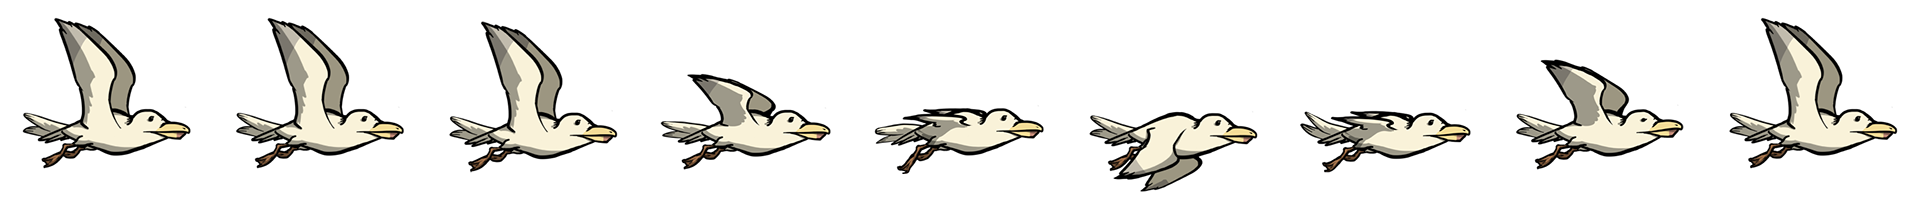
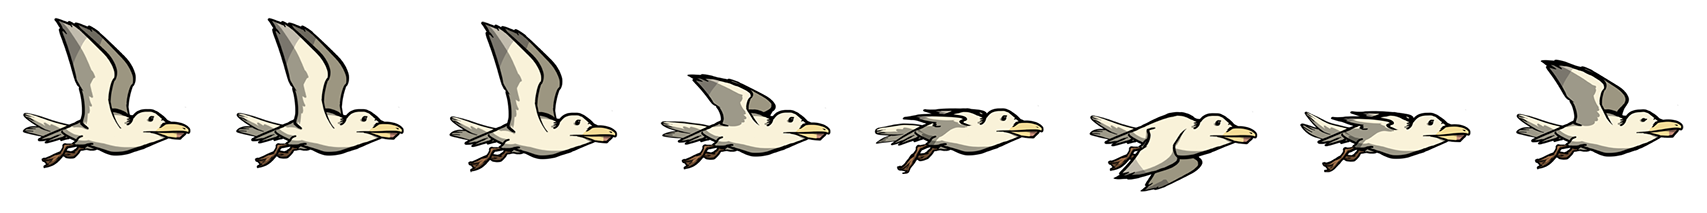
Added InfoBox animation and added new method to get sub frames - Alex Manning

Changed region(s): [[0.0, 0.0845, 0.9936, 0.9014]]

diff --git a/LarryCroftsAdventures/src/nz/ac/wgtn/swen225/lc/renderer/Renderer.java b/LarryCroftsAdventures/src/nz/ac/wgtn/swen225/lc/renderer/Renderer.java
@@ -4,6 +4,7 @@ import nz.ac.wgtn.swen225.lc.domain.Board;
 import nz.ac.wgtn.swen225.lc.domain.Chap;
 import nz.ac.wgtn.swen225.lc.domain.items.Key;
 import nz.ac.wgtn.swen225.lc.domain.tiles.*;
+import nz.ac.wgtn.swen225.lc.persistency.Enemy;
 
 import javax.swing.*;
 import java.awt.*;
@@ -30,10 +31,10 @@ public class Renderer extends JPanel{
     }
     private State state = State.IDLE;
     private enum Images {
-        CHAP, DOOR_BLUE, DOOR_GREEN, DOOR_RED, DOOR_YELLOW, EXIT, FREE, INFOBOX, KEY_BLUE, KEY_GREEN, KEY_RED, KEY_YELLOW, TREASURE, WALL, BOAT, SEAGULL_LEFT, SEAGULL_RIGHT
+        CHAP, DOOR_BLUE, DOOR_GREEN, DOOR_RED, DOOR_YELLOW, EXIT, FREE, INFOBOX, KEY_BLUE, KEY_GREEN, KEY_RED, KEY_YELLOW, TREASURE, WALL, BOAT, SEAGULL_LEFT, SEAGULL_RIGHT, ENEMY
     }
 
-    private final HashMap<Images, Image> images = new HashMap<>();
+    private final HashMap<Images, BufferedImage> images = new HashMap<>();
     private int count = 0;
     private final Random random = new Random();
     private boolean seagullActivated = false;
@@ -41,6 +42,7 @@ public class Renderer extends JPanel{
     private double seagullY;
     private int cellSize;
     private final AudioUnit audioUnit;
+    private int frame;
 
     /**
      * Constructor for the Renderer class.
@@ -78,17 +80,15 @@ public class Renderer extends JPanel{
      */
     public void draw(Graphics g) throws IOException {
         // Dimensions
-        int mazePanelWidth = this.getWidth();
-        int mazePanelHeight = this.getHeight();
-        double tileWidth = mazePanelWidth/ camera.getWidth();
-        double tileHeight = mazePanelHeight/camera.getHeight();
+        double tileWidth = this.getHeight()/ camera.getWidth();
+        double tileHeight = this.getHeight()/camera.getHeight();
         cellSize = (int)Math.max(0, Math.min(tileWidth, tileHeight));
-        int distanceFromLeftBorder = (int)(mazePanelWidth/2 - (cellSize* camera.getWidth()/2));
-        int distanceFromTopBorder = (int)(mazePanelHeight/2 - (cellSize* camera.getHeight()/2));
-        int frame = (count/16) % 8;
+        int distanceFromLeftBorder = (int)(this.getWidth()/2 - (cellSize* camera.getWidth()/2));
+        int distanceFromTopBorder = (int)(this.getHeight()/2 - (cellSize* camera.getHeight()/2));
+        frame = (count/16) % 8;
 
         drawBoard(g);
-        drawChap(mazePanelWidth, mazePanelHeight, frame, g);
+        drawChap(g);
 
         if (!seagullActivated && random.nextInt(0, 1000) == 0){
             seagullActivated = true;
@@ -98,14 +98,14 @@ public class Renderer extends JPanel{
             seagullY = random.nextInt(lowerBound, upperBound + 1);
         }
         if (seagullActivated){
-            seagullAnimation(frame, g);
+            seagullAnimation(g);
             seagullX += 0.05;
             if (seagullX > grid.length){
                 seagullActivated = false;
                 seagullX = 0;
             }
         }
-        drawBorder(new Color(232, 220, 202), mazePanelWidth, mazePanelHeight, distanceFromTopBorder, distanceFromLeftBorder, g);
+        drawBorder(new Color(232, 220, 202), distanceFromTopBorder, distanceFromLeftBorder, g);
         updateCameraPosition();
 
         count++;
@@ -130,58 +130,46 @@ public class Renderer extends JPanel{
                 }
                 Image image = getTileImage(tile);
                 //drawImageAt(image, x, y, g);
-                g.drawImage(image, (int)worldXToCameraX(x), (int)worldYToCameraY(y), cellSize, cellSize, null);
+                g.drawImage(image, (int)worldXToPanelX(x), (int)worldYToPanelY(y), cellSize, cellSize, null);
             }
         }
     }
 
     /**
-     * Draws a seagull flying across screen at random position
-     * @param frame
+     * Draws a seagull flying across screen at y random position
      * @param g
      */
-    private void seagullAnimation(int frame, Graphics g){
-        BufferedImage seagullSpriteSheet = (BufferedImage) images.get(Images.SEAGULL_RIGHT);
-        int frameWidth = seagullSpriteSheet.getWidth()/9;
-        int frameHeight = seagullSpriteSheet.getHeight();
-        BufferedImage chapImage = seagullSpriteSheet.getSubimage(frame * frameWidth,0,frameWidth,frameHeight);
-        int x = (int)worldXToCameraX(seagullX);
-        int y = (int)worldYToCameraY(seagullY);
-        g.drawImage(chapImage, x, y, cellSize, cellSize, null);
+    private void seagullAnimation(Graphics g){
+        BufferedImage seagullSpriteSheet = images.get(Images.SEAGULL_RIGHT);
+        int x = (int)worldXToPanelX(seagullX);
+        int y = (int)worldYToPanelY(seagullY);
+        g.drawImage(getSubFrameImage(seagullSpriteSheet), x, y, cellSize, cellSize, null);
     }
     /**
      * Draws border around game board
      * @param c
-     * @param width
-     * @param height
      * @param top
      * @param left
      * @param g
      */
-    private void drawBorder(Color c, int width, int height, int top, int left, Graphics g){
+    private void drawBorder(Color c, int top, int left, Graphics g){
         // Draw border
         g.setColor(c);
-        g.fillRect(0, 0, width, top);
-        g.fillRect(0, height-top, width, top);
-        g.fillRect(0, 0, left, height);
-        g.fillRect(width-left, 0, left, height);
+        g.fillRect(0, 0, this.getWidth(), top);
+        g.fillRect(0, this.getHeight()-top, this.getWidth(), top);
+        g.fillRect(0, 0, left, this.getHeight());
+        g.fillRect(this.getWidth()-left, 0, left, this.getHeight());
     }
 
     /**
      * Draws chap at center of board
-     * @param mazePanelWidth
-     * @param mazePanelHeight
-     * @param frame
      * @param g
      */
-    private void drawChap(int mazePanelWidth, int mazePanelHeight, int frame, Graphics g){
-        BufferedImage boatSpriteSheet= (BufferedImage) images.get(Images.BOAT);
-        int frameWidth = boatSpriteSheet.getWidth()/8;
-        int frameHeight = boatSpriteSheet.getHeight();
-        BufferedImage chapImage = boatSpriteSheet.getSubimage(frame * frameWidth,0,frameWidth,frameHeight);
-        int chapX = (mazePanelWidth /2)  - cellSize/2;
-        int chapY = (mazePanelHeight /2)  - cellSize/2;
-        g.drawImage(chapImage, chapX, chapY, cellSize, cellSize, null);
+    private void drawChap(Graphics g){
+        BufferedImage boatSpriteSheet= images.get(Images.BOAT);
+        int chapX = (this.getWidth() /2)  - cellSize/2;
+        int chapY = (this.getHeight() /2)  - cellSize/2;
+        g.drawImage(getSubFrameImage(boatSpriteSheet), chapX, chapY, cellSize, cellSize, null);
     }
 
     /**
@@ -209,8 +197,8 @@ public class Renderer extends JPanel{
      * @return
      * @throws IOException
      */
-    private Image getTileImage(Tile tile) throws IOException {
-        Image img = null;
+    private BufferedImage getTileImage(Tile tile) throws IOException {
+        BufferedImage img = null;
         // Assign filename depending on tile type and tile item
         switch (tile.getClass().getSimpleName()) {
             case "Door" -> {
@@ -222,7 +210,7 @@ public class Renderer extends JPanel{
             }
             case "Exit", "ExitLock" -> img = images.get(Images.EXIT);
             case "Treasure" -> img = images.get(Images.TREASURE);
-            case "InfoField" -> img = images.get(Images.INFOBOX);
+            case "InfoField" -> img = getSubFrameImage(images.get(Images.INFOBOX));
             case "KeyTile" -> {
                 Key.Colour keyColour = ((KeyTile) tile).getColour();
                 if (keyColour == Key.Colour.RED){ img = images.get(Images.KEY_RED);}
@@ -241,6 +229,12 @@ public class Renderer extends JPanel{
             }
         }
         return img;
+    }
+
+    private BufferedImage getSubFrameImage(BufferedImage fullImage){
+        int frameWidth = fullImage.getWidth()/8;
+        int frameHeight = fullImage.getHeight();
+        return fullImage.getSubimage(frame * frameWidth,0,frameWidth,frameHeight);
     }
 
     /**
@@ -270,9 +264,9 @@ public class Renderer extends JPanel{
     public void setState(State state){this.state = state;}
 
     /**
-     *  Converts world x coord to camera x coord
+     *  Converts world x coord to panel x coord
      */
-    private double worldXToCameraX(double worldX){
+    private double worldXToPanelX(double worldX){
         double tileWidth = this.getWidth()/ camera.getWidth();
         double tileHeight = this.getHeight()/camera.getHeight();
         int clampedValue = (int)Math.max(0, Math.min(tileWidth, tileHeight));
@@ -281,9 +275,9 @@ public class Renderer extends JPanel{
     }
 
     /**
-     *  Converts world y coord to camera y coord
+     *  Converts world y coord to panel y coord
      */
-    private double worldYToCameraY(double worldY){
+    private double worldYToPanelY(double worldY){
         double tileWidth = this.getWidth()/ camera.getWidth();
         double tileHeight = this.getHeight()/camera.getHeight();
         int clampedValue = (int)Math.max(0, Math.min(tileWidth, tileHeight));
